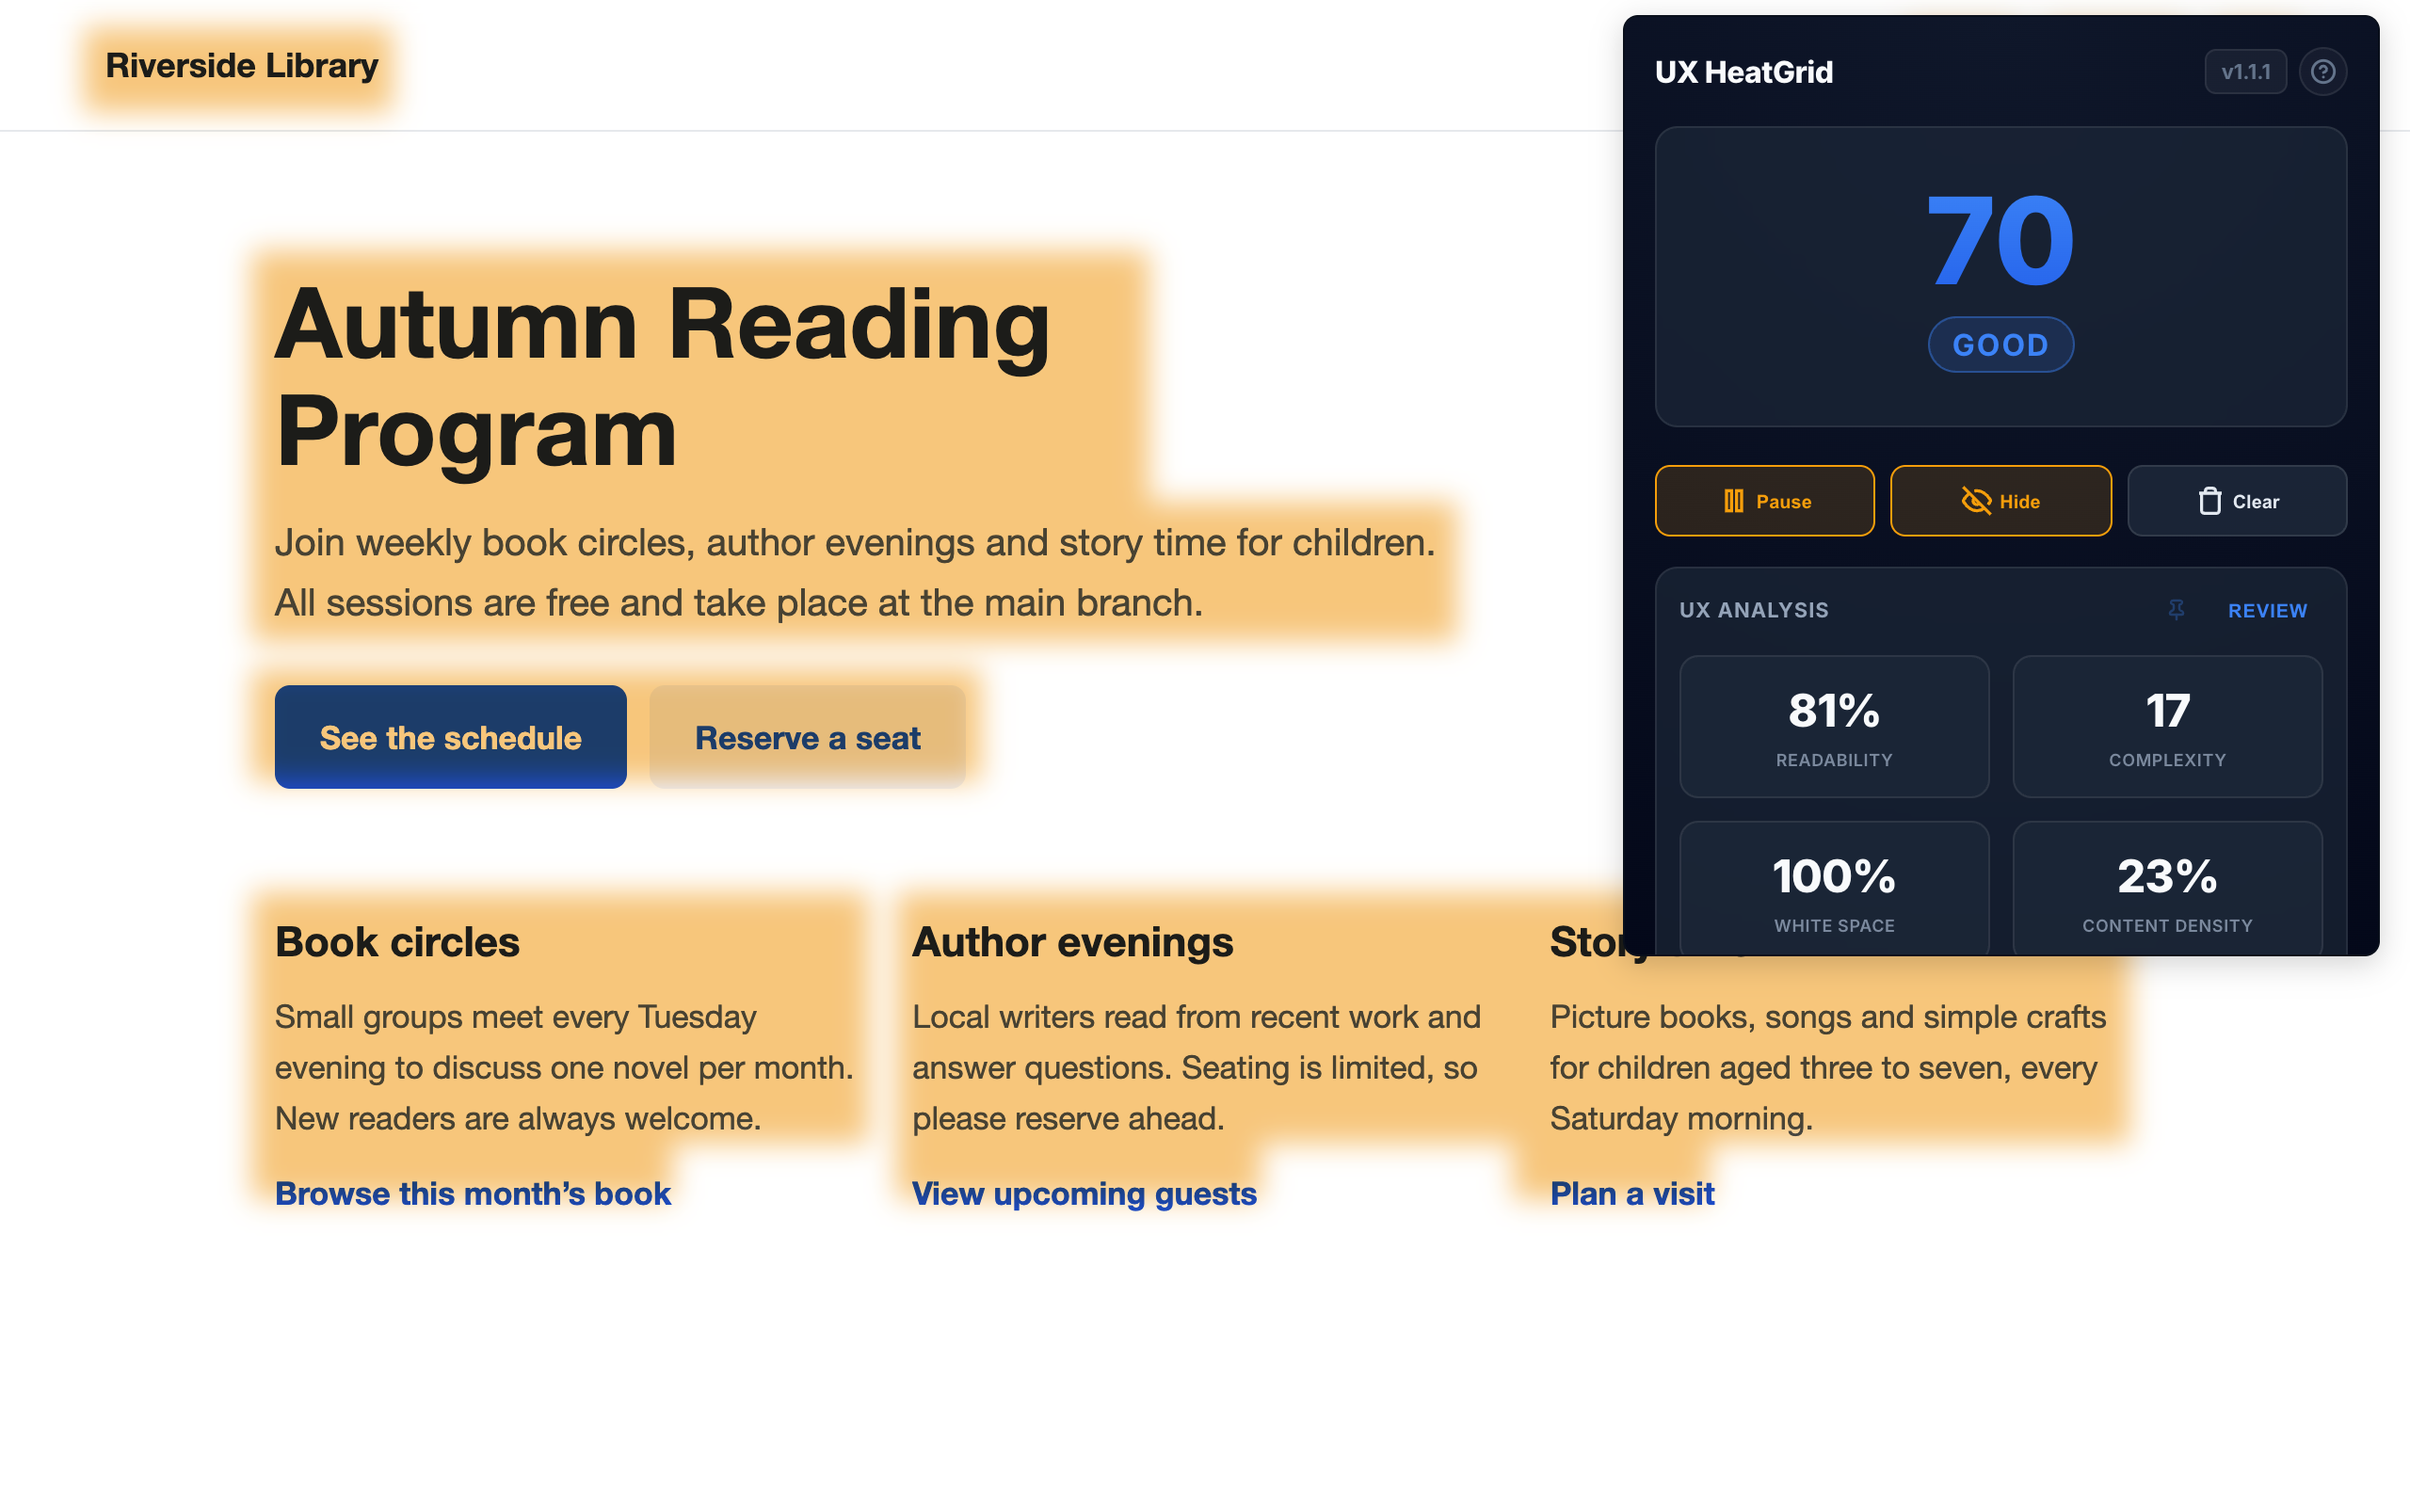
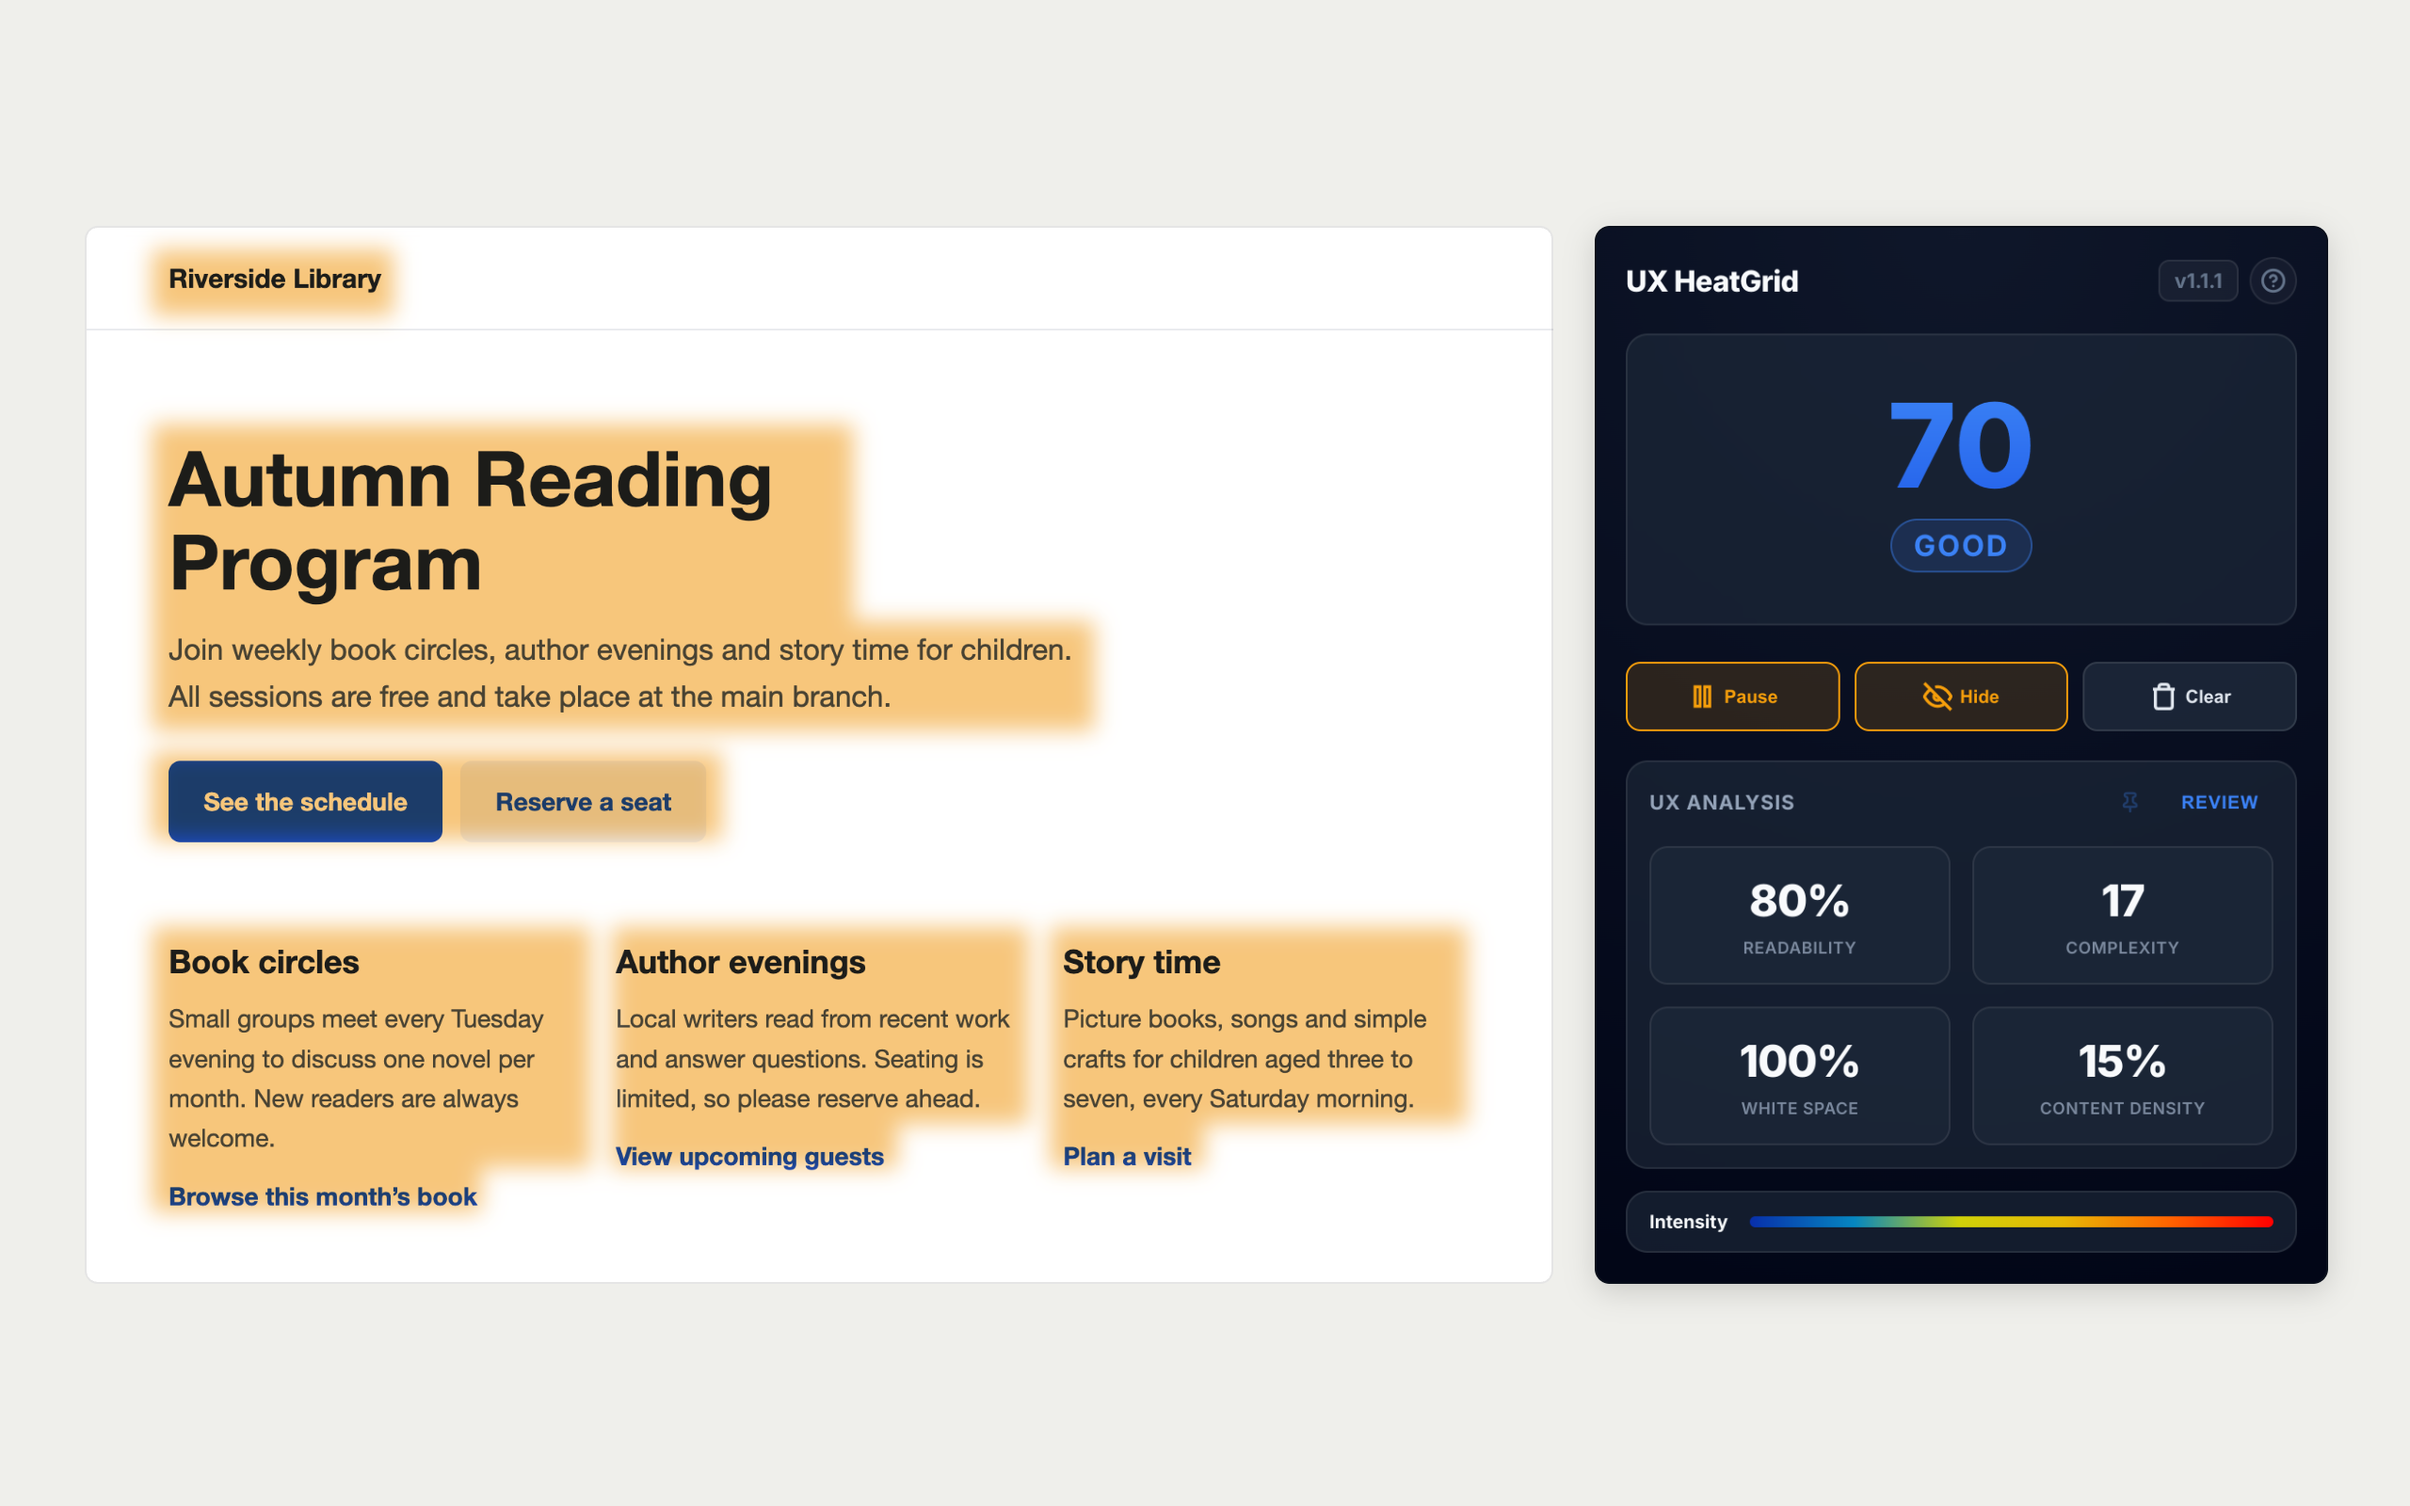
content: show the UX HeatGrid heatmap beside the full popup
Replace the product screenshot with two captures from one new session of
the real extension placed side by side: the heatmap area of the page and
the full popup, so neither covers the other. Alt text and the source note
match the new capture (score 70, readability 80%, complexity 17, white
space 100%, content density 15%).

diff --git a/src/data/products/ux-heatgrid.ts b/src/data/products/ux-heatgrid.ts
@@ -5,8 +5,8 @@ import screenshot from '../../assets/products/ux-heatgrid-screenshot.png';
 // Content from the legacy /ux-heatgrid/ page, checked against the extension
 // source (v1.1.1). The legacy "scroll depth" claim is dropped: scrolling only
 // slows heat gain. The screenshot combines two captures from one session of the
-// real extension on a sample page: the page with the heatmap shown, and the
-// popup opened from the toolbar, placed where Chrome anchors it.
+// real extension on a sample page, placed side by side: the heatmap area of the
+// page, and the full popup opened from the toolbar.
 
 const extension = extensions.find((item) => item.name === 'UX HeatGrid');
 if (!extension) throw new Error('UX HeatGrid is missing from src/data/extensions.ts');
@@ -19,7 +19,7 @@ export const uxHeatgrid: ProductPage = {
     'A live attention heatmap and a rule-based UX score for any web page, calculated locally in your browser.',
   screenshot: {
     src: screenshot,
-    alt: 'UX HeatGrid on a sample library events page: an orange attention heatmap over the headline, text, buttons and links, and the popup showing a UX Score of 70, Good, with readability 81%, complexity 17, white space 100% and content density 23%.',
+    alt: 'UX HeatGrid on a sample library events page: an orange attention heatmap over the headline, text, buttons and links, beside the popup showing a UX Score of 70, Good, with readability 80%, complexity 17, white space 100% and content density 15%.',
   },
   features: [
     {
